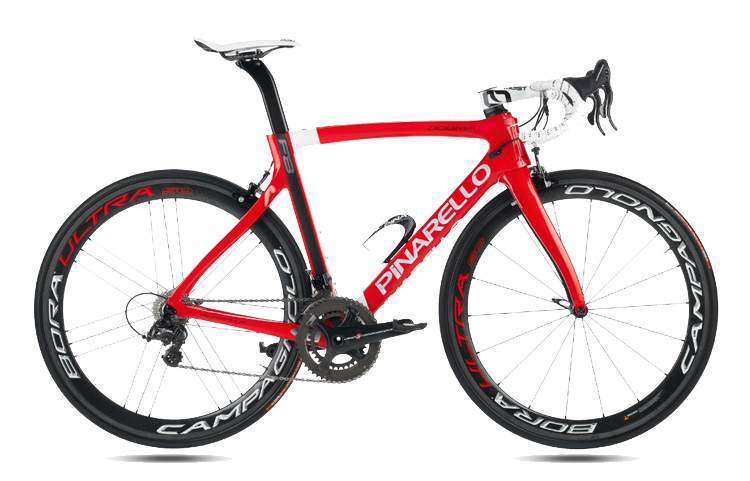
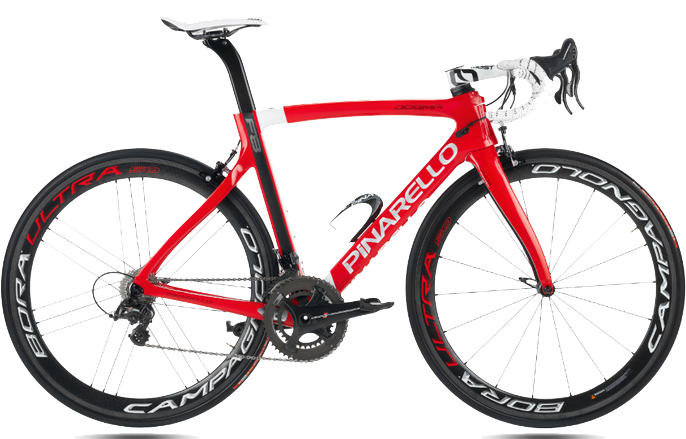
posicion de imagen background bici shop

diff --git a/index.html b/index.html
@@ -119,7 +119,7 @@
 <section class="bike-shop">
 	<div class="container">
 		<div class="row">
-			<div class="col-sm-6 col-sm-offset-6">
+			<div class="col-sm-6 col-sm-offset-6 bike-description">
 				<div class="row">
 					<div class="col-sm-4 text-uppercase">
 						<h2 class="bike-title">New <del>Arrival</del></h2>

diff --git a/styles/styles.css b/styles/styles.css
@@ -117,6 +117,7 @@ a.link-carousel {
 .bike-shop{
 	background-image: url(../images/dogma.png);
 	background-repeat: no-repeat;
+	background-position:-10% top;
 }
 
 .bike-title {
@@ -125,4 +126,7 @@ a.link-carousel {
 }
 .bike-subtitle {
 	font-size: 2.5em;
+}
+.bike-description{
+	background-color: white;
 }
